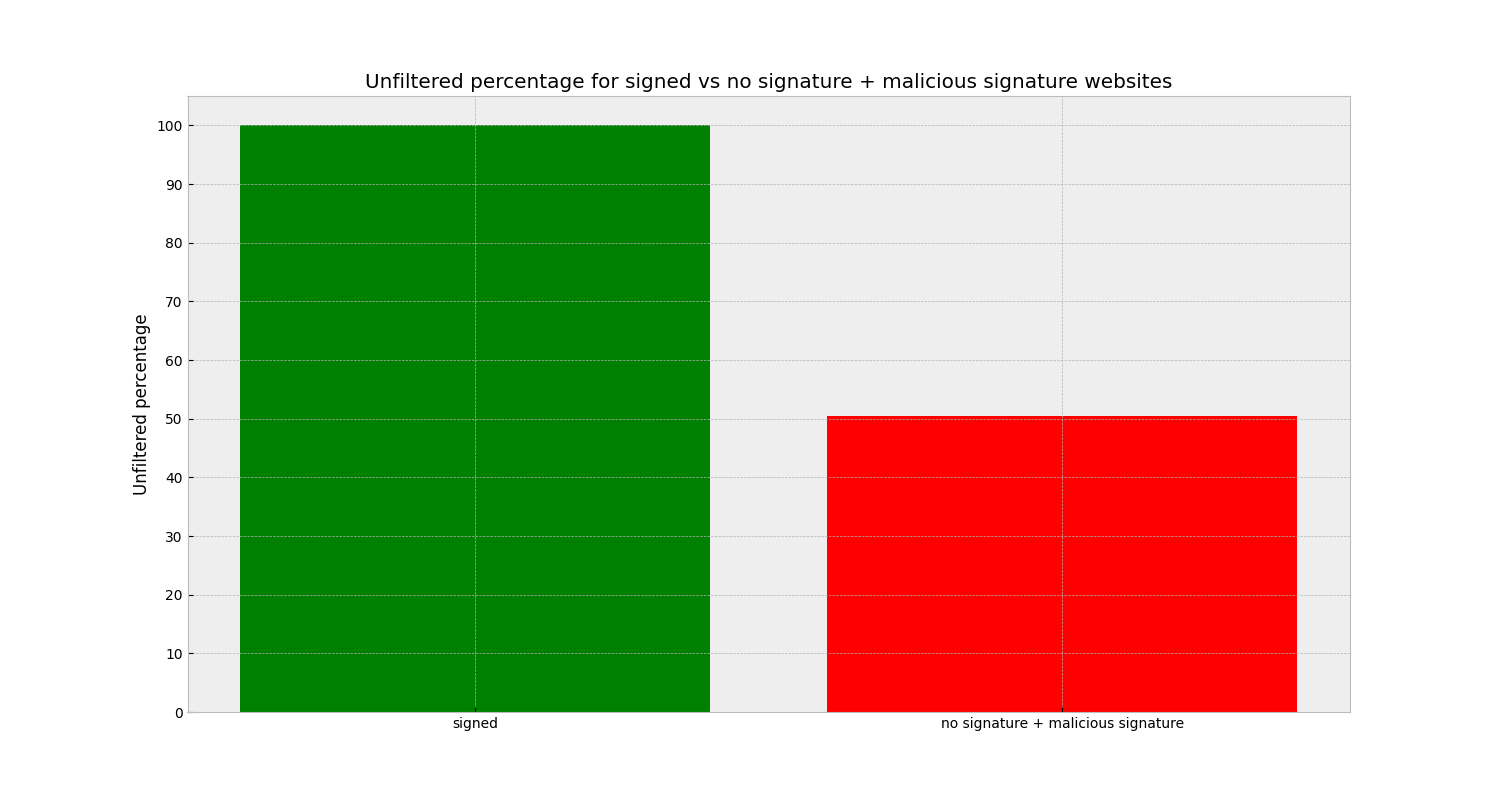
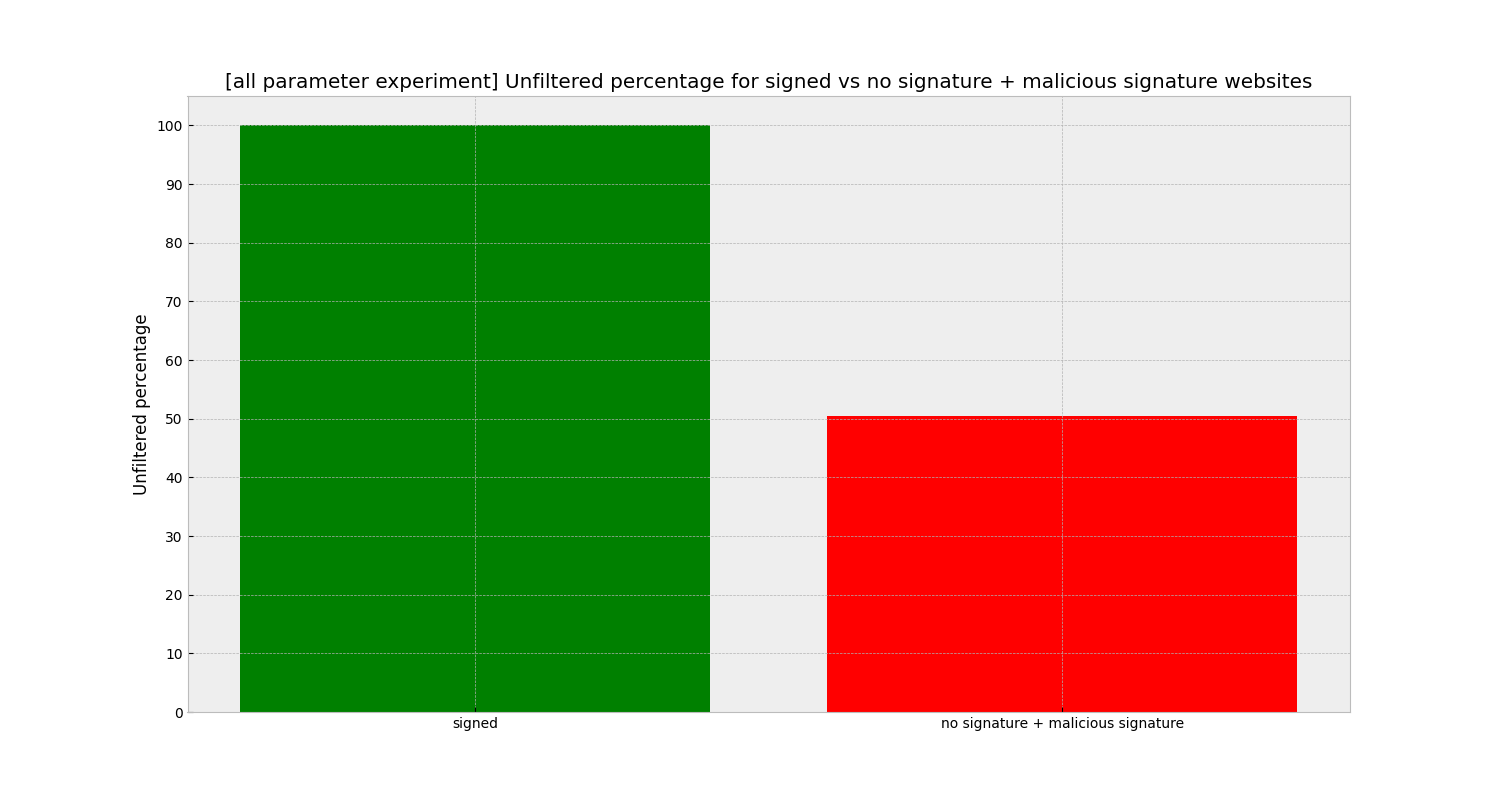
experiment name added to plots' titles

Changed region(s): [[0.1533, 0.0938, 0.8893, 0.125]]

diff --git a/client/visualise.py b/client/visualise.py
@@ -58,7 +58,7 @@ def plot_unfiltered_percentage_by_signature():
         plt.xticks([1, 2], ['signed', 'no signature + malicious signature'])
         plt.yticks([0, 10, 20, 30, 40, 50, 60, 70, 80, 90, 100])
         plt.ylabel('Unfiltered percentage')
-        plt.title('Unfiltered percentage for signed vs no signature + malicious signature websites')
+        plt.title('[all parameter experiment] Unfiltered percentage for signed vs no signature + malicious signature websites')
         # plt.show()
         plt.savefig('client/test_results/unfiltered_percentage_by_signature.png')
         plt.close()
@@ -121,7 +121,7 @@ def plot_measurement_by_category(measurement):
         plt.vlines([3.5, 5.5, 7.5, 9.5, 12.5], ymin=0, ymax=1.15*max_avg, color='k', linestyles='dotted', linewidth=1)
         plt.xticks(range(1, len(bins) + 1), bins.keys())
         plt.ylabel('Average {} ({})'.format(measurement, 'kB' if measurement == 'size' else 's'))
-        plt.title('Average {} for each category'.format(measurement))
+        plt.title('[all parameter experiment] Average {} for each category'.format(measurement))
         # plt.show()
         plt.savefig('client/test_results/{}_by_category.png'.format(measurement.replace(' ', '_')))
         plt.close()
@@ -155,7 +155,7 @@ def plot_image_size_differences():
         plt.bar(2, np.array(stego_image_sizes['bytes'], dtype=object).mean()/1000, color='b')
         plt.xticks([1, 2], ['clean images', 'stegoimages'])
         plt.ylabel('Average image size (kB)')
-        plt.title('Average image size for clean vs stegoimages with small payload')
+        plt.title('[all parameter experiment] Average image size for clean vs stegoimages with small payload')
         # plt.show()
         plt.savefig('client/test_results/image_differences_bytes.png')
         plt.close()
@@ -167,7 +167,7 @@ def plot_image_size_differences():
         plt.bar(4, np.array(stego_image_sizes['pixels_height'], dtype=object).mean(), color='b')
         plt.xticks([1, 2, 3, 4], ['clean width', 'stego width', 'clean height', 'stego height'])
         plt.ylabel('Average image size (pixels)')
-        plt.title('Average image size for clean vs stegoimages')
+        plt.title('[all paramater experiment] Average image size for clean vs stegoimages')
         # plt.show()
         plt.savefig('client/test_results/image_differences_pixels.png')
         plt.close()
